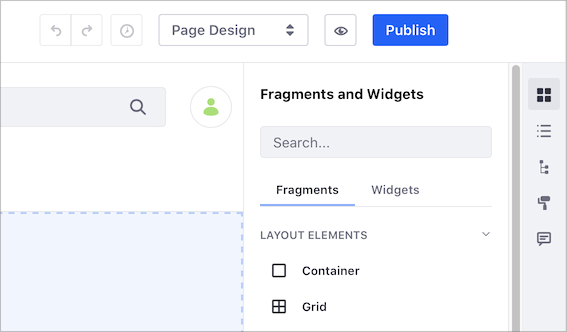
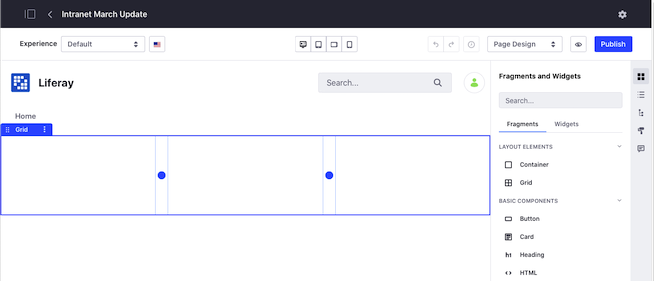
LRDOCS-8156 Content Pages Overview updates for new 7.3 UI

diff --git a/docs/dxp/7.x/en/site-building/creating-pages/building-and-managing-content-pages/content-pages-overview.md b/docs/dxp/7.x/en/site-building/creating-pages/building-and-managing-content-pages/content-pages-overview.md
@@ -2,24 +2,35 @@
 
 The default type of page used in Liferay DXP is a Content Page. The Content Page editing UI provides access to many different drag-and-drop elements (Fragments and Widgets) that are available for immediate use with minimal configuration. Continue reading to get an overview of the Content Pages UI. See [Building Content Pages](./building-content-pages.md) to jump directly in to building a Content Page.
 
-The Content Page sidebar contains two different groups of elements that you can drag-and-drop to build your content:
+The Content Page sidebar contains these elements for editing and collaborating on your Content Page:
 
-- Fragments
+![The Content Page sidebar includes the different elements you can add to your content](./content-pages-overview/images/07v.png)
+
+|  | Element Name |
+| --- | --- |
+| ![Fragments and Widgets](../../../images/icon-view-type-cards.png) | [Fragments and Widgets](#fragments-and-widgets) |
+| ![Contents](../../../images/icon-list-ul.png) | [Contents](#contents) |
+| ![Page Structure](../../../images/icon-pages-tree.png) | [Page Structure](#page-structure) |
+| ![Page Design Options](../../../images/icon-format.png) | [Page Design Options](##page-design-options) |
+| ![Comments](../../../images/icon-comments-w.png) | [Comments](#comments) |
+
+## Fragments and Widgets
+
+Fragments and Widgets are two different groups of elements that you can drag-and-drop to build your content.
+
+- [Fragments](#fragments)
     
     Fragments can have editable elements, such as [text](./building-content-pages.md#editing-text), [images](./building-content-pages.md#editing-an-image), or [links](./building-content-pages.md#editing-a-hyperlink), that you can replace with custom content. You can also [map these elements](./building-content-pages.md#mapping-content) to content that is already available on the site itself. For more information on developing these elements, see [Fragment Specific Tags](../../developer-guide/developing-page-fragments/fragment-specific-tags-reference.md).
 
     ![The Fragments panel provides a list of Fragments that can be added inside the page editor.](./content-pages-overview/images/01v.png)
 
-- Widgets
+- [Widgets](#widgets)
 
-    Widgets are applications and tools available out-of-the-box that you can add to the page. There are some limitations to using Widgets on Content Pages. See [Using Widgets on Content Pages](./using-widgets-on-a-content-page.md) for more information.
+    Widgets are applications and tools available out-of-the-box that you can add to the page.
     
     ![The Widgets panel provides a list of Widgets that can be added inside the page editor.](./content-pages-overview/images/02v.png)
     
-    ```note::
-      While portlets are rendered according to `render-weight <https://docs.liferay.com/ce/portal/7.3-latest/definitions/liferay-portlet-app_7_3_0.dtd.html#render-weight>`_ on Widget Pages, that is not true for Content Pages. Portlets are rendered in the order they appear on the page on Content Pages (i.e. left to right, top to bottom).
-    ```
-## Fragments
+### Fragments
 
 You can find the following Fragments under the Content Page sidebar:
 
@@ -30,7 +41,7 @@ You can find the following Fragments under the Content Page sidebar:
 - [Footers](#footers)
 - [Navigation Bars](#navigation-bars)
 
-### Layout Elements
+#### Layout Elements
 
 The Layout Elements section contains two Fragments:
 
@@ -39,24 +50,55 @@ The Layout Elements section contains two Fragments:
 
     ![The Layouts panel contains layouts for organizing Fragments.](content-pages-overview/images/03v.png)
 
-### Basic Components
+#### Basic Components
 
 Basic Components are small design elements or pieces that add functionality to the page. A Component might be an image with formatting or a block of text with styling pre-applied. Components work together to build pages piece by piece.
 
-![Here are several out of the box components arranged in a Layout.](./content-pages-overview/images/04v.png)
+![Several out of the box components arranged in a grid layout.](./content-pages-overview/images/04v.png)
 
-### Content Display
+#### Content Display
 
 You can display a single existing web content, blog entry, or document by adding a Content Fragment from the *Content Display* panel. See [Using the Content Display Fragment](./using-fragments.md#using-the-content-fragment) for more information.
 
-### Featured Content
+#### Featured Content
 
-### Footers
+The Featured Content panel contains complete Fragments (composed of multiple components) that can be immediately used and customized as soon as they are added to a page. A large banner image with a text overlay and customizable CTA (Call to Action) is an example of a Fragment that is ready for immediate use.
+<!-- An image with better text contrast would probably be a better example here - to help the image / text / CTA button stand out from one another more. -->
+![A Section named Banner being displayed while editing a Content Page.](./content-pages-overview/images/06v.png)
 
-### Navigation Bars
+#### Footers
 
-## Widgets
+The *Footers* panel includes Fragments that you can add as the Footer of the page. See [Master Pages](../defining-headers-and-footers/master-page-templates.md) for their use.
 
+#### Navigation Bars
+
+The *Navigation Bars* panel includes Fragments that you can add as the Header of the page. See [Master Pages](../defining-headers-and-footers/master-page-templates.md) for their use.
+
+### Widgets
+
+See [Using Widgets on Content Pages](./using-widgets-on-a-content-page.md) for more information on how to use Widgets for your Content Page.
+    
+   ```note::
+   While portlets are rendered according to `render-weight <https://docs.liferay.com/ce/portal/7.3-latest/definitions/liferay-portlet-app_7_3_0.dtd.html#render-weight>`_ on Widget Pages, that is not true for Content Pages. Portlets are rendered in the order they appear on the page on Content Pages (i.e. left to right, top to bottom).
+```
+
+## Contents
+
+The Contents panel provides a list of the web content that's used on the page. This includes content displayed in a widget and content mapped to content fields. Click the *Contents* button (![Contents](../../../images/icon-contents.png)) to open the Contents panel. From this panel, you can perform a variety of actions to edit and manage web content. See [Managing Web Content on Content Pages](./managing-web-content-on-content-pages.md) for more information.
+
+## Page Structure
+
+Page Structure provides a hierarchical view of the Fragments and their contents on the page. Click on a field in the page structure to highlight it on the page. Headers and Footers appear in the hierarchy as well for custom [Master Page Templates](../defining-headers-and-footers/master-page-templates.md), but they're disabled because they can only be modified from the Master Page Template.
+
+![Page Structure shows you a hierarchy of your page and contents.](./content-pages-overview/images/08v.png)
+
+## Page Design Options
+
+Click the *Look and Feel* icon (![Look and Feel](../../../images/icon-look-and-feel.png)) to change the Theme or manage other options for the page. These options are further explored in [Configuring Individual Pages](../page-settings/configuring-individual-pages.md#look-and-feel).
+
+## Comments
+
+You can comment on a Page Fragment to discuss changes and collaborate. Comments are disabled by default in Liferay DXP 7.2+, but Administrators can enable them. See [Using Fragment Comments](./using-fragment-comments.md) for more information.
 
 <!-- 
 ####################################################
